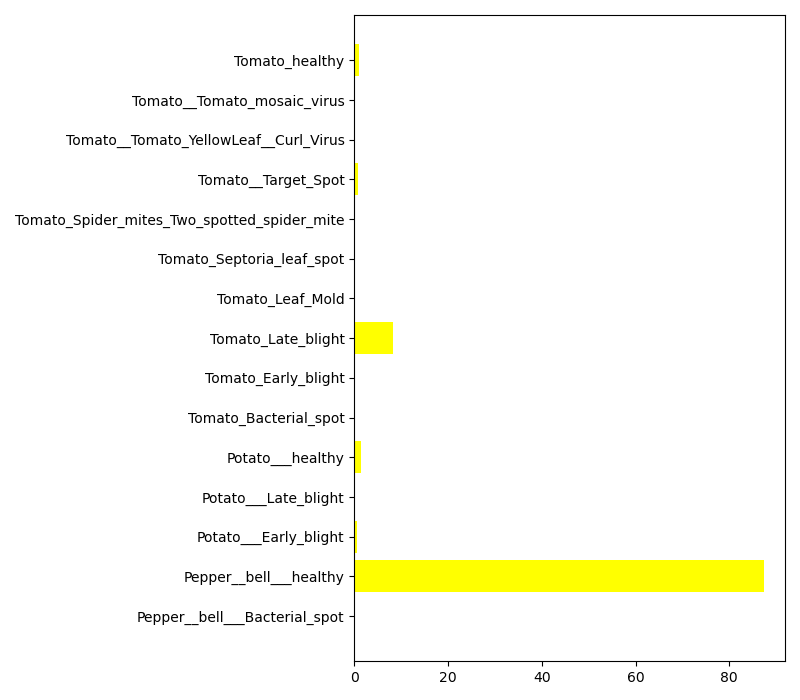
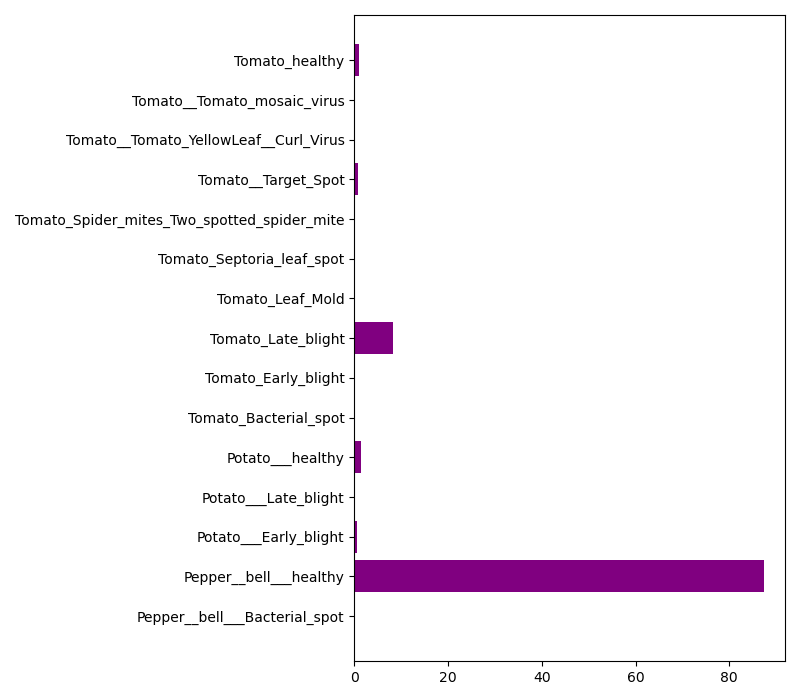
plotting successful !

diff --git a/templates/plotting.html b/templates/plotting.html
@@ -10,7 +10,7 @@
     
     <h4> The output of the softmax layer is shown in the following graph</h4>
 
-    <img src='../static/images/probability_bars.png' alt="Chart" >
+    <img src='static/images/probability_bars.png' alt="Chart" >
 
 </body>
 </html>

diff --git a/app.py b/app.py
@@ -114,7 +114,7 @@ def breedplot():
     global a
     img_url='static/images/probability_bars.png'
     plt.figure(figsize=(8,7))
-    plt.barh(disease_class,a,color='yellow')   
+    plt.barh(disease_class,a,color='purple')   
     plt.tight_layout()
     plt.savefig(img_url)
     time.sleep(10)
